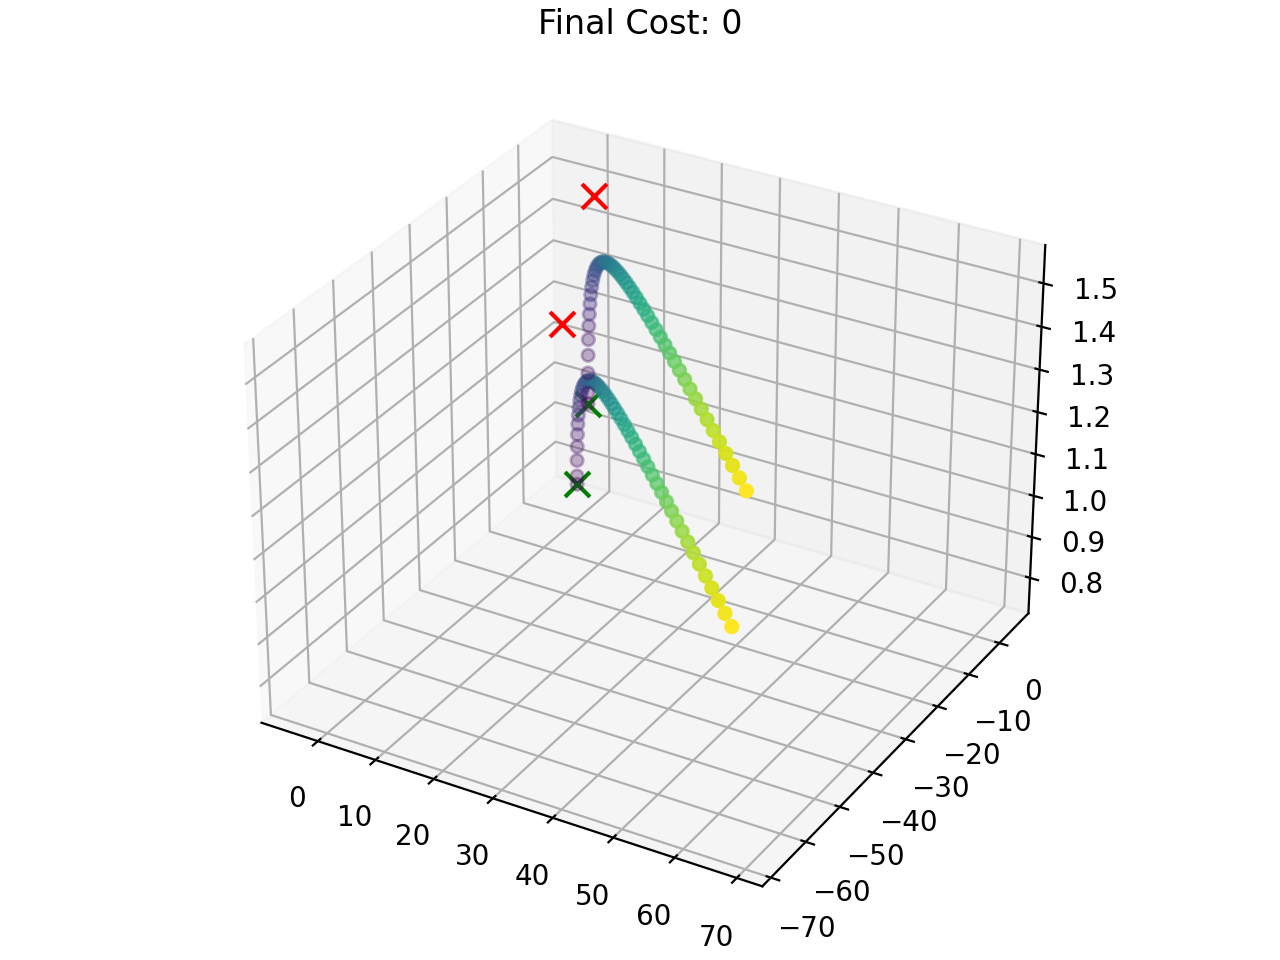
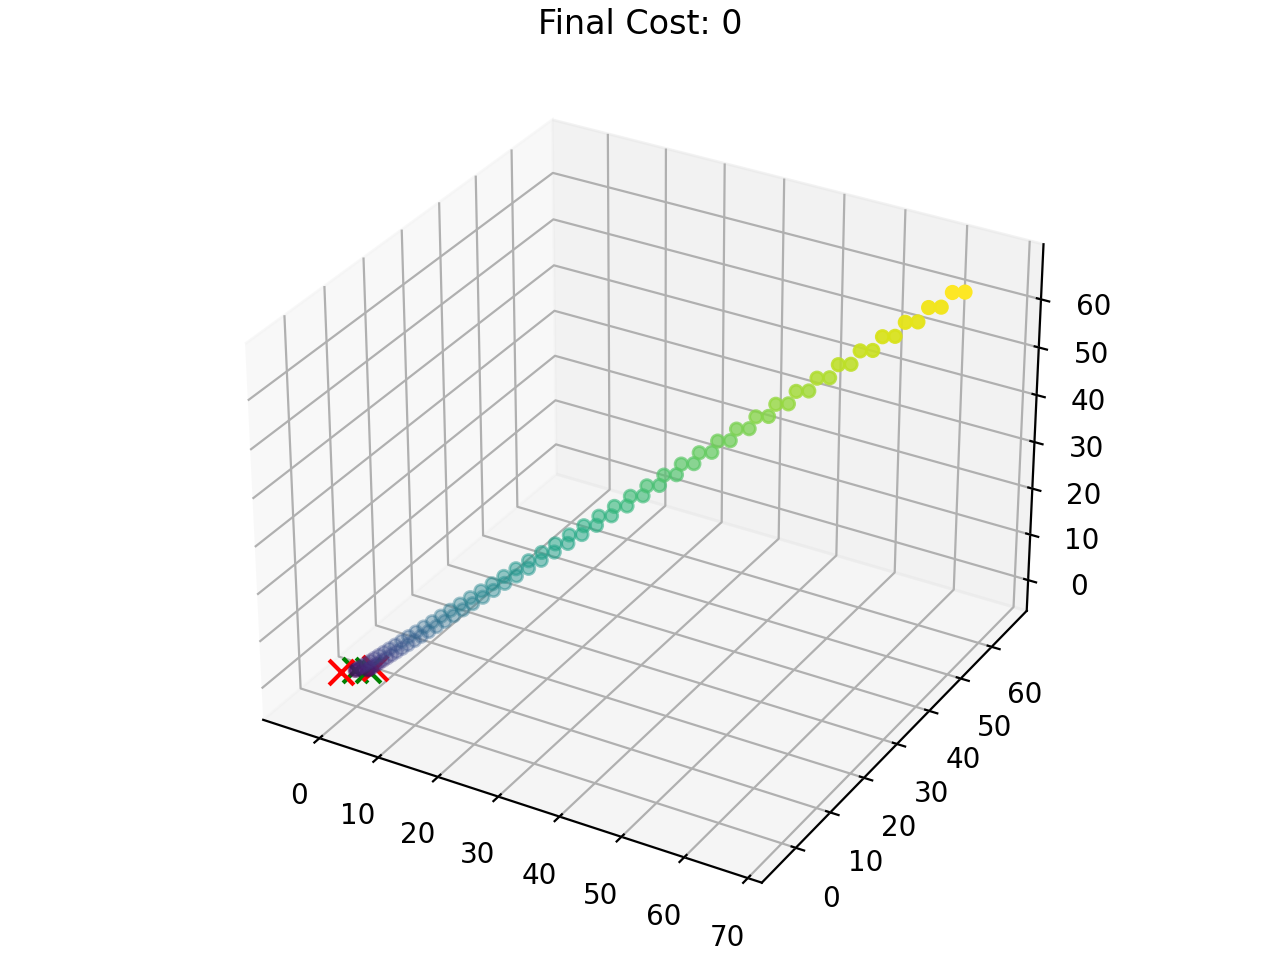
updates to quad scp

diff --git a/distributed_SCP/DPscp/solve2.py b/distributed_SCP/DPscp/solve2.py
@@ -1,4 +1,3 @@
-
 import numpy as np
 import cvxpy as cvx
 import jax
@@ -7,10 +6,8 @@ import matplotlib.pyplot as plt
 from tqdm import tqdm
 from functools import partial
 import dpilqr as dec
-# from animations import animate_cartpole
 
 COLLISION_RADIUS = 0.35
-
 @partial(jax.jit, static_argnums=(0,))
 @partial(jax.vmap, in_axes=(None, 0, 0))
 def linearize(fd: callable,
@@ -36,7 +33,8 @@ def solve_scp(fd: callable,
                       ru: float,
                       ρ: float,
                       tol: float,
-                      max_iters: int):
+                      max_iters: int,
+                      n_drones: int):
     """This function is used for one-shot optimization"""
     n = Q.shape[0]  # state dimension
     m = R.shape[0]  # control dimension
@@ -55,7 +53,7 @@ def solve_scp(fd: callable,
     s_prev = None
     for i in (prog_bar := tqdm(range(max_iters))):
         s, u, obj = scp_iteration(fd, P, Q, R, N, s_bar, u_bar, s_goal, s0,
-                                  ru, ρ, iterate, s_prev)
+                                  ru, ρ, iterate, s_prev, n_drones)
         
         iterate+=1
 
@@ -82,14 +80,14 @@ def solve_scp(fd: callable,
 def scp_iteration(fd: callable, P: np.ndarray, Q: np.ndarray, R: np.ndarray,
                   N: int, s_bar: np.ndarray, u_bar: np.ndarray,
                   s_goal: np.ndarray, s0: np.ndarray,
-                  ru: float, ρ: float, iterate: int, s_prev: np.ndarray):
+                  ru: float, ρ: float, iterate: int, s_prev: np.ndarray, n_drones: int):
     """Solve a single SCP sub-problem for the cart-pole swing-up problem."""
     A, B, c = linearize(fd, s_bar[:-1], u_bar)
     A, B, c = np.array(A), np.array(B), np.array(c)
-
+    print(f'current iteration is {iterate}')
     n = Q.shape[0]
     m = R.shape[0]
-    n_drones = m//3
+    
     s_cvx = cvx.Variable((N + 1, n))
     u_cvx = cvx.Variable((N, m))
 
@@ -103,35 +101,48 @@ def scp_iteration(fd: callable, P: np.ndarray, Q: np.ndarray, R: np.ndarray,
         objective += cvx.quad_form(s_cvx[k,:] - s_goal, Q) + cvx.quad_form(u_cvx[k,:], R) 
         constraints += [s_cvx[k+1,:] == A[k]@s_cvx[k,:] + B[k]@u_cvx[k,:] + c[k]]
 
-        #Note: without the following convex trust regions, the solution blows up 
-        #just after a few iterations    
-    
-        for i in range(n_drones):
-            constraints += [cvx.pnorm(s_cvx[k,i*3:(i+1)*3]-s_bar[k,i*3:(i+1)*3],'inf') <= ρ]
-            constraints += [cvx.pnorm(u_cvx[k,i*3:(i+1)*3]-u_bar[k,i*3:(i+1)*3],'inf') <= ρ] 
-            
-            #actuator constraints
-            constraints += [-np.array([-np.pi/6, -np.pi/6, 0]) <= u_cvx[k, i*3:(i+1)*3], \
-                        u_cvx[k, i*3:(i+1)*3] <= np.array([np.pi/6, np.pi/6, 20])]
-        
-            # linearized collision avoidance constraints
-            if iterate > 0:
-                prev_pos = [s_prev[k][id:id+6] for id in range(0, len(s_prev[k]), 6)]
-                curr_pos = [s_cvx[k][id:id+6] for id in range(0, len(s_cvx[k]), 6)]
-                for j in range(n_drones):
-                    if j != i:
-                        constraints+= [cvx.norm(prev_pos[i][0:3]-prev_pos[j][0:3]) + \
-                                    (prev_pos[i][0:3].T-prev_pos[j][0:3].T)/cvx.norm(prev_pos[i][0:3]-prev_pos[j][0:3]) \
-                                    * (curr_pos[i][0:3]-curr_pos[j][0:3]) >= COLLISION_RADIUS]
+        #Adding constraints for each quadrotor:
+        if n_drones > 1:
 
-    
-      
+            for i in range(n_drones):
+                """Convex trust region"""
+                constraints += [cvx.pnorm(s_cvx[k,i*6:(i+1)*6]-s_bar[k,i*6:(i+1)*6],'inf') <= ρ]
+                constraints += [cvx.pnorm(u_cvx[k,i*4:(i+1)*4]-u_bar[k,i*4:(i+1)*4],'inf') <= ρ] 
+                
+                constraints += [np.array([-2, -2, -2, 0]) <= u_cvx[k, i*4:(i+1)*4], \
+                            u_cvx[k, i*4:(i+1)*4] <= np.array([2, 2, 2, 15])]
+                
+                #state constraints:
+                constraints+= [np.array([-5., -5. , 0.9, -np.pi/3, -np.pi/3, -np.pi/3, -5., -5., -5., -1.5, -1.5, -1.5]) <= s_cvx[k, i*12:(i+1)*12],\
+                            s_cvx[k, i*12:(i+1)*12] <= np.array([5. , 5. , 4., np.pi/3, np.pi/3, np.pi/3, 5., 5., 5., 1.5, 1.5, 1.5])]
+            
+                #linearized collision avoidance constraints
+                if iterate > 0:
+                    prev_pos = [s_prev[k][id:id+6] for id in range(0, len(s_prev[k]), 6)]
+                    curr_pos = [s_cvx[k][id:id+6] for id in range(0, len(s_prev[k]), 6)]
+                    for j in range(n_drones):
+                        if j != i:
+                            constraints+= [cvx.norm(prev_pos[i][0:3]-prev_pos[j][0:3]) + \
+                                        (prev_pos[i][0:3].T-prev_pos[j][0:3].T)/cvx.norm(prev_pos[i][0:3]-prev_pos[j][0:3])
+                                            @ (curr_pos[i][0:3]-curr_pos[j][0:3]) >= COLLISION_RADIUS]
+                            
+        else: #in case we want to test our code with a single drone
+
+            constraints += [np.array([ -2, -2, -2, 0]) <= u_cvx[k, :], \
+                            u_cvx[k, :] <= np.array([2, 2, 2, 15])]
+                
+            #state constraints:
+            constraints+= [np.array([-5., -5. , 0.9, -np.pi/3, -np.pi/3, -np.pi/3, -5., -5., -5., -1.5, -1.5, -1.5]) <= s_cvx[k, :],\
+                        s_cvx[k, :] <= np.array([5. , 5. , 3., np.pi/3, np.pi/3, np.pi/3, 5., 5., 5., 1.5, 1.5, 1.5])]
+
+            constraints += [cvx.pnorm(s_cvx[k,:]-s_bar[k,:],'inf') <= ρ]
+            constraints += [cvx.pnorm(u_cvx[k,:]-u_bar[k,:],'inf') <= ρ] 
+
 
     objective += cvx.quad_form(s_cvx[-1,:] - s_goal, P)
-    
-
+    print(f'total number of constraints is {len(constraints)}')
     prob = cvx.Problem(cvx.Minimize(objective), constraints)
-    prob.solve()  
+    prob.solve(verbose = True)  
   
     if prob.status != 'optimal':
         raise RuntimeError('SCP solve failed. Problem status: ' + prob.status)
@@ -143,110 +154,170 @@ def scp_iteration(fd: callable, P: np.ndarray, Q: np.ndarray, R: np.ndarray,
 
     return s, u, obj
 
-# def Quad_Dynamics(s, u):
 
-#     x, y, z, vx, vy, vz = s
-
-#     theta, phi, tau = u
-
-#     x_d = jnp.array([
-#         vx,
-#         vy,
-#         vz,
-#         g*jnp.tan(theta),
-#         -g*jnp.tan(phi),
-#         tau-g
-
-#     ])
+# def omega_to_input(x, u):
+#     """This function maps realisitc motor commands to actual torques [N~m] and forces [N]
     
-#     return x_d
+#     i.e., u[0]-> angular speed of the 1st motor
 
-def multi_Quad_Dynamics(s, u):
+#     """
+    
+#     k_F = 7e-6
+#     k_M = 1e-7
+#     l = 0.175
+
+#     P = np.array([[ -l * k_F, -l * k_F,  l * k_F,  l * k_F  ],
+#               [ -l * k_F, l * k_F,   l * k_F,  -l * k_F ],
+#               [ -k_M,     k_M,       -k_M,     k_M      ],
+#               [ k_F,      k_F,       k_F,      k_F      ]])
+#     # refer to https://ieeexplore.ieee.org/stamp/stamp.jsp?tp=&arnumber=5980409
+      
+#     torques_forces = P @ u**2
+#     f = torques_forces[3]
+#     tau = torques_forces[0:3]
+
+#     return f, tau
+
+def single_quad_dynamics(s, u, x_dims):
+
+    # f_z,tau = quad_dynamics(s, u)
+
+
+
+    tau_x, tau_y, tau_z, f_z = u[0], u[1], u[2], u[3]
+    psi = s[3]
+    theta = s[4]
+    phi = s[5]
+    v_x = s[6]
+    v_y = s[7]
+    v_z = s[8]
+    w_x = s[9]
+    w_y = s[10]
+    w_z = s[11]
+
+    x_d = jnp.array([
+        v_x*jnp.cos(psi)*jnp.cos(theta) + v_y*(jnp.sin(phi)*jnp.sin(theta)*jnp.cos(psi) - jnp.sin(psi)*jnp.cos(phi)) + v_z*(jnp.sin(phi)*jnp.sin(psi) + jnp.sin(theta)*jnp.cos(phi)*jnp.cos(psi)),
+        v_x*jnp.sin(psi)*jnp.cos(theta) + v_y*(jnp.sin(phi)*jnp.sin(psi)*jnp.sin(theta) + jnp.cos(phi)*jnp.cos(psi)) - v_z*(jnp.sin(phi)*jnp.cos(psi) - jnp.sin(psi)*jnp.sin(theta)*jnp.cos(phi)), 
+        -v_x*jnp.sin(theta) + v_y*jnp.sin(phi)*jnp.cos(theta) + v_z*jnp.cos(phi)*jnp.cos(theta), 
+        (w_y*jnp.sin(phi) + w_z*jnp.cos(phi))/jnp.cos(theta), 
+        w_y*jnp.cos(phi) - w_z*jnp.sin(phi), 
+        w_x + w_y*jnp.sin(phi)*jnp.tan(theta) + w_z*jnp.cos(phi)*jnp.tan(theta), 
+        v_y*w_z - v_z*w_y + 981.*jnp.sin(theta)/100., 
+        -v_x*w_z + v_z*w_x - 981.*jnp.sin(phi)*jnp.cos(theta)/100., 
+        2*f_z + v_x*w_y - v_y*w_x - 981.*jnp.cos(phi)*jnp.cos(theta)/100., 
+        10000.*tau_x/23. - 17.*w_y*w_z/23., 
+        10000.*tau_y/23. + 17.*w_x*w_z/23., 
+        250.*tau_z
+    ])
+        
+    return x_d
+
+def multi_Quad_Dynamics(s, u, x_dims):
+    """Constants such as the mass and half-body length, etc, are hard coded into the model below"""
 
     num_quadrotors = len(x_dims)
 
-     # Define the constants of the quadrotor dynamics
     g = 9.81
-    
+    n_states = 12
+    n_inputs = 4
     # Split the state `s` and control input `u` into indiviual components
-    xs = [s[i:i+6] for i in range(0, len(s), 6)]
-    us = [u[i:i+3] for i in range(0, len(u), 3)]
+    xs = [s[i:i+n_states] for i in range(0, len(s), n_states)]
+    us = [u[i:i+n_inputs] for i in range(0, len(u), n_inputs)]
     
     x_ds = []
     for i in range(num_quadrotors):
-        x, y, z, vx, vy, vz = xs[i]
-        theta, phi, tau = us[i]
         
+        tau_x, tau_y, tau_z, f_z = us[0], us[1], us[2], us[3]
+        psi = xs[i][3]
+        theta = xs[i][4]
+        phi = xs[i][5]
+        v_x = xs[i][6]
+        v_y = xs[i][7]
+        v_z = xs[i][8]
+        w_x = xs[i][9]
+        w_y = xs[i][10]
+        w_z = xs[i][11]
+
         x_d = jnp.array([
-            vx,
-            vy,
-            vz,
-            g*jnp.tan(theta),
-            -g*jnp.tan(phi),
-            tau-g
+        v_x*jnp.cos(psi)*jnp.cos(theta) + v_y*(jnp.sin(phi)*jnp.sin(theta)*jnp.cos(psi) - jnp.sin(psi)*jnp.cos(phi)) + v_z*(jnp.sin(phi)*jnp.sin(psi) + jnp.sin(theta)*jnp.cos(phi)*jnp.cos(psi)),
+        v_x*jnp.sin(psi)*jnp.cos(theta) + v_y*(jnp.sin(phi)*jnp.sin(psi)*jnp.sin(theta) + jnp.cos(phi)*jnp.cos(psi)) - v_z*(jnp.sin(phi)*jnp.cos(psi) - jnp.sin(psi)*jnp.sin(theta)*jnp.cos(phi)), 
+        -v_x*jnp.sin(theta) + v_y*jnp.sin(phi)*jnp.cos(theta) + v_z*jnp.cos(phi)*jnp.cos(theta), 
+        (w_y*jnp.sin(phi) + w_z*jnp.cos(phi))/jnp.cos(theta), 
+        w_y*jnp.cos(phi) - w_z*jnp.sin(phi), 
+        w_x + w_y*jnp.sin(phi)*jnp.tan(theta) + w_z*jnp.cos(phi)*jnp.tan(theta), 
+        v_y*w_z - v_z*w_y + 981.*jnp.sin(theta)/100., 
+        -v_x*w_z + v_z*w_x - 981*jnp.sin(phi)*jnp.cos(theta)/100., 
+        2*f_z + v_x*w_y - v_y*w_x - 981.*jnp.cos(phi)*jnp.cos(theta)/100., 
+        10000.*tau_x/23. - 17.*w_y*w_z/23., 
+        10000.*tau_y/23. + 17.*w_x*w_z/23., 
+        250.*tau_z
         ])
         
         x_ds.append(x_d)
-    
-    # print(f'shape is {jnp.concatenate(x_ds).shape}')
+
     return jnp.concatenate(x_ds)
 
 def discretize(f, dt):
     """Discretize continuous-time dynamics `f` via Runge-Kutta integration."""
 
     def integrator(s, u, dt=dt):
-        k1 = dt * f(s, u)
-        k2 = dt * f(s + k1 / 2, u)
-        k3 = dt * f(s + k2 / 2, u)
-        k4 = dt * f(s + k3, u)
+        k1 = dt * f(s, u, x_dims)
+        k2 = dt * f(s + k1 / 2, u, x_dims)
+        k3 = dt * f(s + k2 / 2, u, x_dims)
+        k4 = dt * f(s + k3, u, x_dims)
         return s + (k1 + 2 * k2 + 2 * k3 + k4) / 6
 
     return integrator
 
 
-"""Main loop"""
+"""Example with 2 drones"""
 
-n_agents = 2
-n_states = 6
-n_controls = 3
+n_drones = 1
+n_states = 12
+n_controls = 4
 g = 9.81
-n = n_agents * n_states                                # state dimension
-m = n_agents * n_controls                              # control dimension
+n = n_drones * n_states                                # total state dimension
+m = n_drones * n_controls                              # total control dimension
 
-s_goal = np.array([-1.5, -1.5, 1.2, 0,  0 , 0, 2.5, 1.5, 1.5, 0, 0 , 0])  # desired state
-s0 = np.array([0, 0, 1.0, 0, 0, 0, 1.5, 1.0, 1.0, 0, 0, 0])          # initial state
+# s_goal = np.array([-1.5, -1.5, 1.2, 0,  0 , 0, 0, 0, 0, 0, 0 , 0, #drone 1
+#                    1.5, 1.5, 1.2, 0, 0 , 0, 0, 0, 0, 0, 0, 0 #drone 2
+#                    ])                                                     
+# s0 = np.array([0.1, 0.2, 1.0, 0, 0, 0, 0, 0, 0, 0, 0, 0, 
+#                -0.5, 0.3, 1.0, 0, 0, 0, 0, 0, 0, 0, 0, 0])  
+# 
+# 
+s_goal = np.array([-1.5, -1.5, 1.2, 0,  0 , 0, 0, 0, 0, 0, 0 , 0])
+s0 = np.array([0.1, 0.2, 1.0, 0, 0, 0, 0, 0, 0, 0, 0, 0])
+
 
 dt = 0.1                             # discrete time resolution
-# T = 15.                              # total simulation time
+T = 15.                              # total simulation time
 
-# Dynamics
-x_dims = [6, 6]
-fd = jax.jit(discretize(multi_Quad_Dynamics,dt))
+x_dims = [12, 12]
+# fd = jax.jit(discretize(multi_Quad_Dynamics,dt))
+fd = jax.jit(discretize(single_quad_dynamics,dt))
 
 # SCP parameters
 
 P = 1e3*np.eye(n)                    # terminal state cost matrix
 Q = np.eye(n)*10  # state cost matrix
 R = 1e-3*np.eye(m)                   # control cost matrix
-ρ = 1.5                               # trust region parameter
+ρ = 2.                               # trust region parameter
 ru = 8.                              # control effort bound
 tol = 5e-1                           # convergence tolerance
 max_iters = 100                      # maximum number of SCP iterations
 
-# Solve the swing-up problem with SCP
-# t = np.arange(0., T + dt, dt)
-# N = t.size - 1
-N = 50  
+t = np.arange(0., T + dt, dt)
+N = t.size - 1
+# N = 50  
 
-s, u = solve_scp(fd, P, Q, R, N, s_goal, s0, ru, ρ, tol, max_iters)
+s, u = solve_scp(fd, P, Q, R, N, s_goal, s0, ru, ρ, tol, max_iters, n_drones)
 
 # Simulate open-loop control
 for k in range(N):
     s[k+1] = fd(s[k], u[k])
 
-
-
-
+"""TODO: run SCP in RHC"""
 # def solve_rhc():
 #     count = 0
 #     si = s0
@@ -285,5 +356,5 @@ for k in range(N):
 # Plot state and control trajectories
 # print(f'Full trajectory has shape {X_trj.shape}')
 # fig = plt.figure(dpi=200)
-# dec.plot_solve(X_trj,0,s_goal,x_dims,n_d = 3)
+# dec.plot_solve(s,0,s_goal,x_dims,n_d = 3)
 # plt.savefig('2_quad_SCP.png')

diff --git a/distributed_SCP/DPscp/solve.py b/distributed_SCP/DPscp/solve.py
@@ -157,7 +157,5 @@ def main():
     x_opt, u_opt, objective = quad_scp.solve()
 
     
-
-
 if __name__ == "__main__":
     main()
